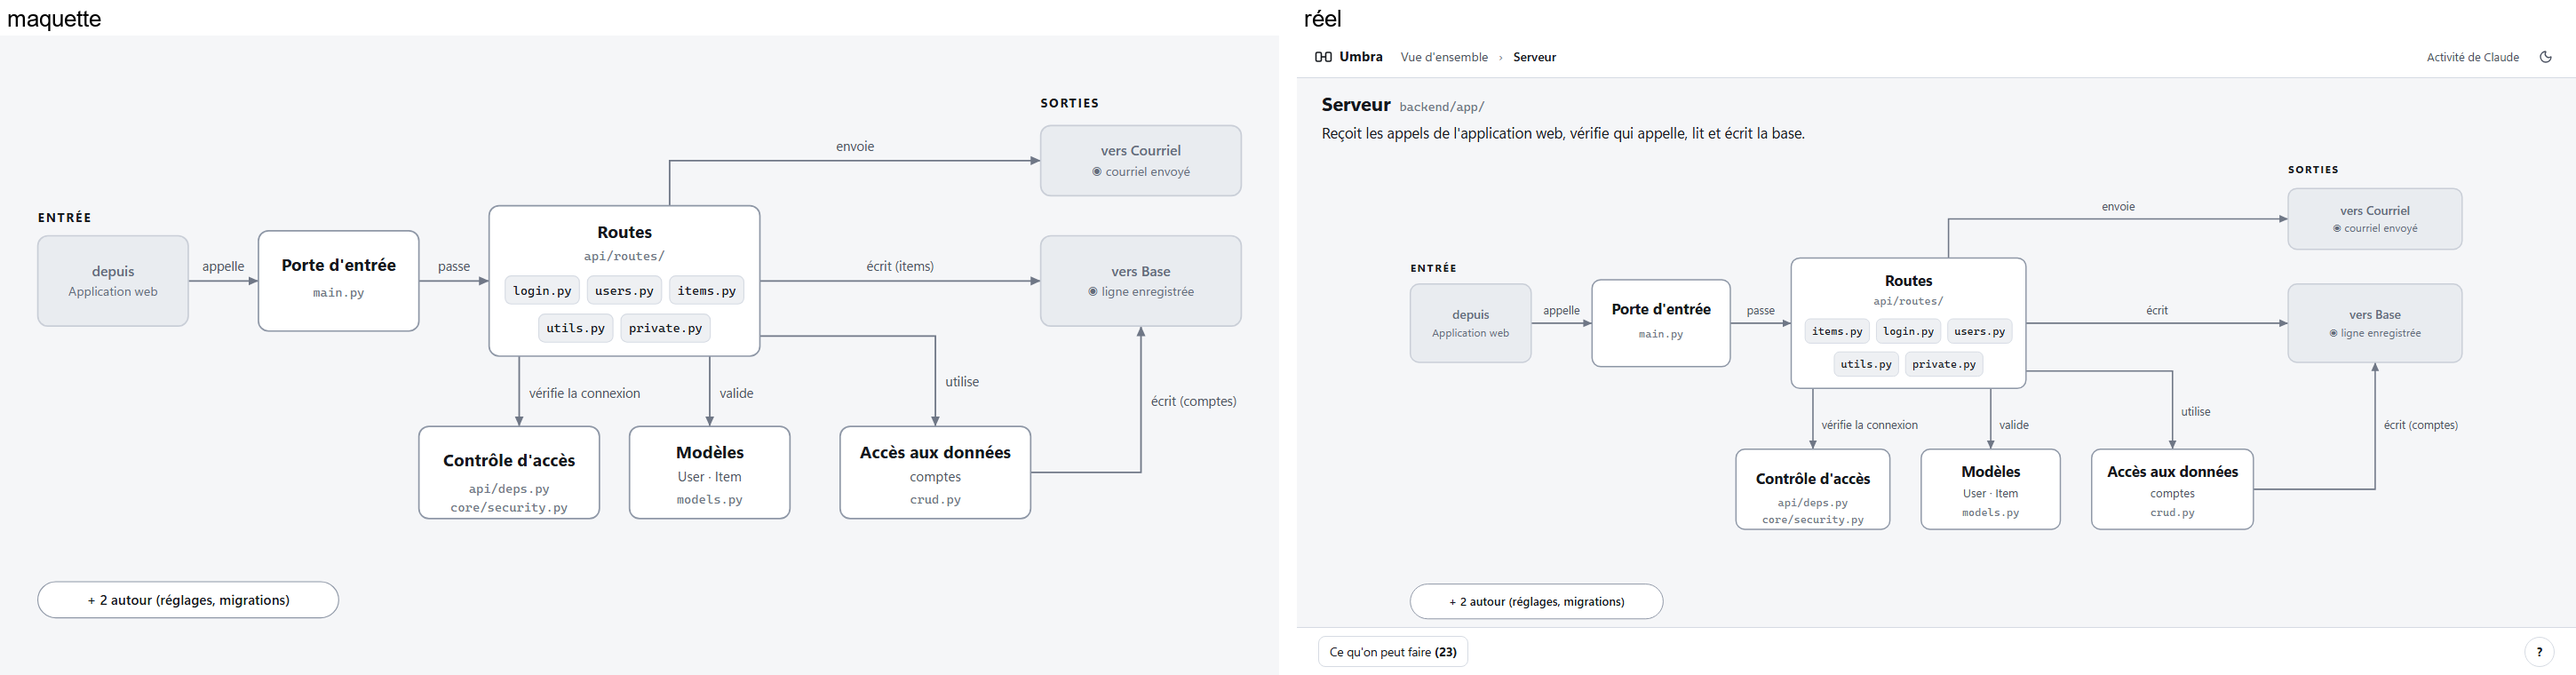
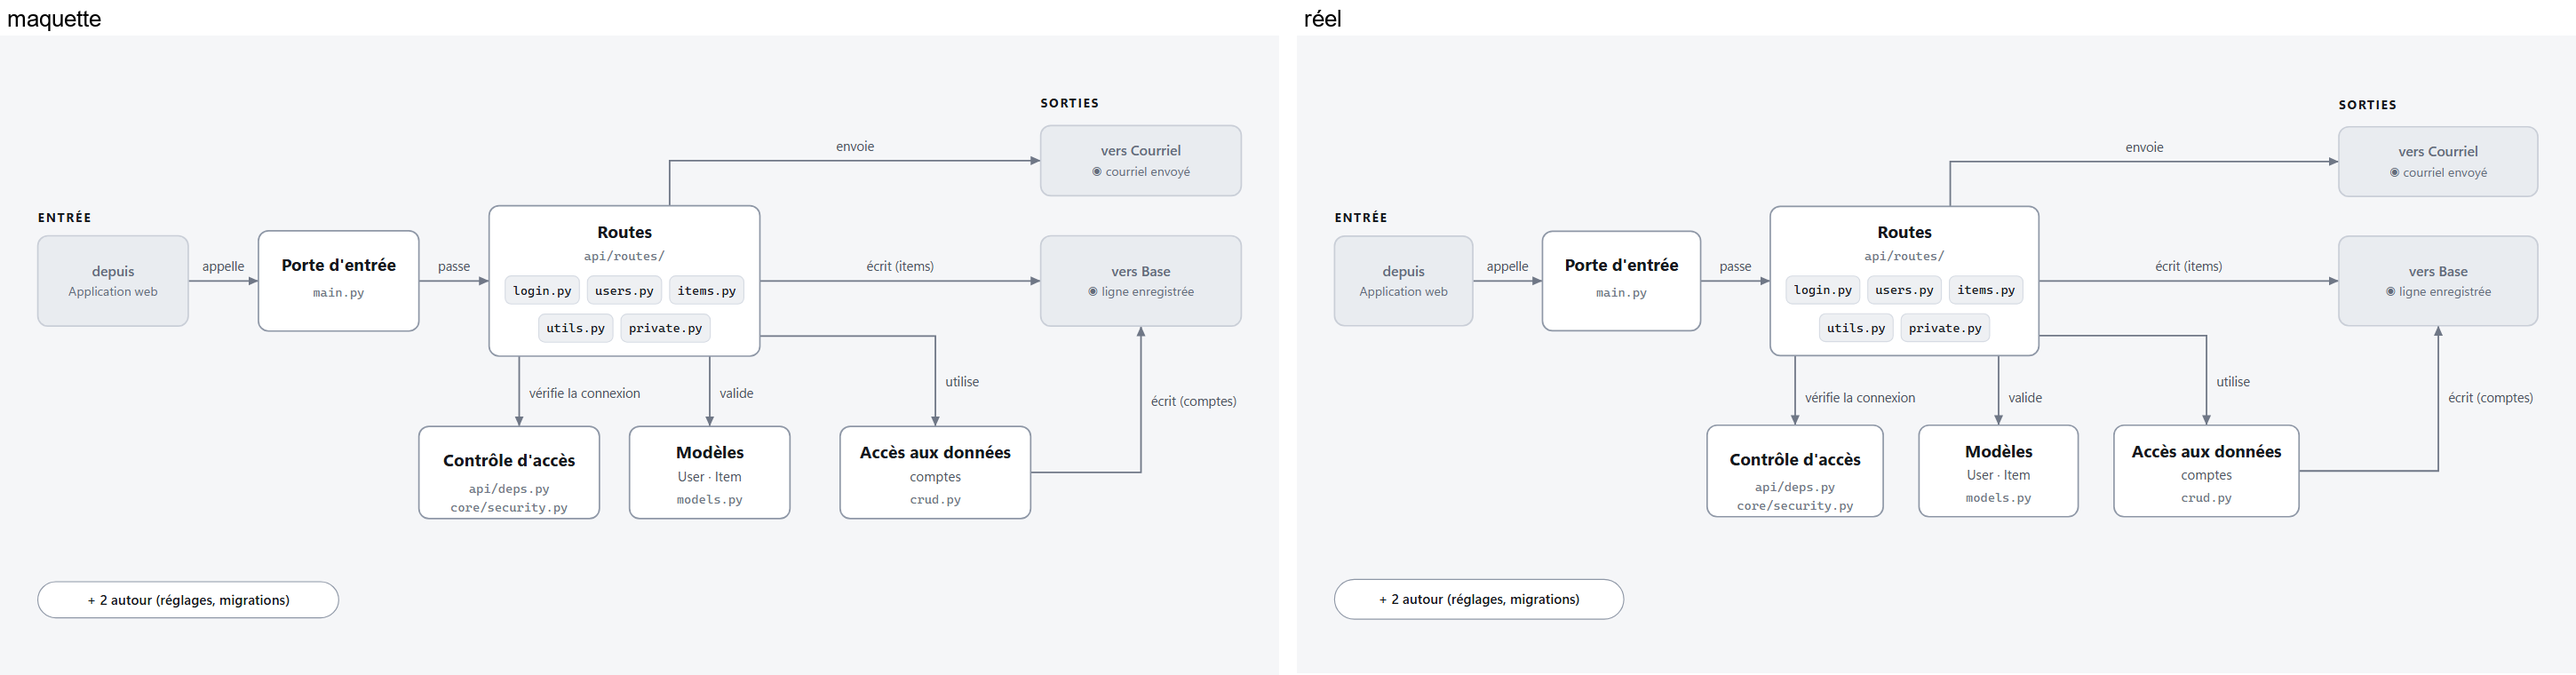
fix: Level 1 matches the mock: Routes 'écrit (items)', chips in mock order, chip hover (#105)
- The arrow from a non-data part to the base names the tables its writing
  files are named after, less those the data part already names: Routes
  writes the items, Accès aux données the accounts.
- Route chips: sign-in first, then the files with the most routes
  (login, users, items / utils, private).
- Hovering a chip only lights its border; the Routes card no longer opens
  over the chips. Keyboard focus on a chip shows its file.
- SORTIES sits higher over an output line alone (p-web).
- Fixture and side-by-side checks refreshed.

diff --git a/ui/src/projectmap/inside/InsideDrawing.tsx b/ui/src/projectmap/inside/InsideDrawing.tsx
@@ -16,7 +16,7 @@ interface Props {
 /** Level 1 as SVG, drawn as the mock: ENTRÉE over the stub on the left, parts left → right, SORTIES over the stubs on the right. */
 export function InsideDrawing({ inside, drawn, selected, onSelect, onStub, onHint, onAround, onAroundLeave }: Props) {
   const names = Object.fromEntries(inside.parts.map((p) => [p.id, p.kind === "stub" ? stubName(p.title, p.detail) : p.title]));
-  const hover = (hint: Hint) => ({
+  const hover = (hint: Hint): HoverHandlers => ({
     onMouseEnter: (e: Pointer) => onHint(hint, e),
     onMouseMove: (e: Pointer) => onHint(hint, e),
     onMouseLeave: () => onHint(null),
@@ -90,7 +90,15 @@ interface PartProps {
   selected: boolean;
   onSelect: (id: string) => void;
   onStub: (neighbour: string) => void;
-  hover: (hint: Hint) => object;
+  hover: (hint: Hint) => HoverHandlers;
+}
+
+interface HoverHandlers {
+  onMouseEnter: (e: Pointer) => void;
+  onMouseMove: (e: Pointer) => void;
+  onMouseLeave: () => void;
+  onFocus: (e: Pointer) => void;
+  onBlur: () => void;
 }
 
 function Part({ drawn: { part, rect, chips }, selected, onSelect, onStub, hover }: PartProps) {
@@ -155,7 +163,7 @@ function Part({ drawn: { part, rect, chips }, selected, onSelect, onStub, hover 
           className="pm-chip"
           tabIndex={0}
           aria-label={chip.label}
-          {...hover({ title: chip.label, text: "", proofs: [{ file: chip.file, start: 0, end: 0 }], guess: false })}
+          {...chipHover(hover({ title: chip.label, text: "", proofs: [{ file: chip.file, start: 0, end: 0 }], guess: false }))}
         >
           <rect x={chip.rect.x} y={chip.rect.y} width={chip.rect.w} height={chip.rect.h} rx={6} />
           <text x={chip.rect.x + chip.rect.w / 2} y={chip.rect.y + 18.5} textAnchor="middle">
@@ -165,4 +173,18 @@ function Part({ drawn: { part, rect, chips }, selected, onSelect, onStub, hover 
       ))}
     </g>
   );
+}
+
+/** A chip under the mouse only lights its border (mock), and keeps the box's card from opening over the
+ * chips next to it; its file still shows on keyboard focus. */
+function chipHover(handlers: HoverHandlers) {
+  const quiet = (e: Pointer & { stopPropagation: () => void }) => {
+    e.stopPropagation();
+    handlers.onMouseLeave();
+  };
+  const focus = (e: Pointer) => {
+    e.stopPropagation(); // the box around it would open its own card over this one
+    handlers.onFocus(e);
+  };
+  return { onMouseEnter: quiet, onMouseMove: quiet, onFocus: focus, onBlur: handlers.onBlur };
 }

diff --git a/ui/src/projectmap/inside/insideGeometry.ts b/ui/src/projectmap/inside/insideGeometry.ts
@@ -62,8 +62,8 @@ export function chipLabel(file: string): string {
 }
 
 function chipRows(part: InsidePart): string[][] {
-  // Shortest names first: the long one goes to the second row, which keeps the box narrow (mock: private.py).
-  const labels = part.chips.map((c) => chipLabel(c.file)).sort((a, b) => a.length - b.length || a.localeCompare(b));
+  // In the engine's order: sign-in first, then the files with the most routes (mock: login, users, items).
+  const labels = part.chips.map((c) => chipLabel(c.file));
   const rows: string[][] = [];
   for (let i = 0; i < labels.length; i += CHIPS_PER_ROW) rows.push(labels.slice(i, i + CHIPS_PER_ROW));
   return rows;
@@ -170,7 +170,8 @@ export function insideGeometry(inside: InsideMap): InsideGeometry {
     arrows,
     outputs,
     entry: firstIn ? { x: 20, y: firstIn.y - 14 } : null,
-    sorties: outs.some((s) => s.detail.startsWith("◉")) || outputs.length ? { x: outX, y: highest - 18 } : null,
+    // Over an output line alone, SORTIES keeps the mock's wider gap (p-web: about 40 px above the line).
+    sorties: outs.some((s) => s.detail.startsWith("◉")) || outputs.length ? { x: outX, y: stubAbove || !outputs.length ? highest - 18 : Math.min(highest - 18, 70 - 40) } : null,
     around: inside.around.length ? { x: 20, y: AROUND_Y, w: Math.max(240, insideAroundText(inside).length * 7.6 + 40) } : null,
   };
 }

diff --git a/engine/src/umbra_engine/projection/inside_links.py b/engine/src/umbra_engine/projection/inside_links.py
@@ -2,11 +2,13 @@
 neighbours of the Level 0 map, drawn as grey stubs at the edges, from the lines that reach them (a write,
 an SMTP call, an HTTP client). One verb per arrow; a part on the lower row gets one arrow in, no more."""
 
+import posixpath
 from dataclasses import dataclass
 
 from umbra_engine.claims import StoredClaim
 from umbra_engine.projection.inside_model import InsidePart
 from umbra_engine.projection.inside_parts import Group
+from umbra_engine.projection.inside_words import table_words
 from umbra_engine.projection.system_facts import Facts
 from umbra_engine.projection.system_model import Proof, SystemBox, SystemLink, SystemMap, proof_of
 from umbra_engine.projection.system_units import Unit
@@ -162,10 +164,7 @@ def _senders(
     if target.startswith("store:"):
         writers = having("db-write")
         if writers:
-            return [
-                (p, "écrit" + (f" ({p.part.detail})" if p.part.kind == "data" and p.part.detail else ""), c)
-                for p, c in writers
-            ]
+            return _writes(facts, writers)
         return [(p, "lit", c) for p, c in having("db-driver:")]
     if target == "sqlite-file":
         return [(p, verb, c) for p, c in having("sqlite")]
@@ -184,6 +183,30 @@ def _senders(
         return [(p, verb, c) for p, c in calls]
     entry = placed[0]
     return [(entry, verb, [])]
+
+
+def _writes(
+    facts: Facts, writers: list[tuple[Placed, list[StoredClaim]]]
+) -> list[tuple[Placed, str, list[StoredClaim]]]:
+    """« écrit (comptes) » for a data part, by its function names; for any other part, the tables its
+    writing files are named after, less those a data part already names: Routes « écrit (items) »."""
+    words = table_words(facts)
+    named = {w for p, _ in writers if p.part.kind == "data" for w in p.part.detail.split(" · ") if w}
+    found: list[tuple[Placed, str, list[StoredClaim]]] = []
+    for part, claims in writers:
+        if part.part.kind == "data":
+            found.append((part, "écrit" + (f" ({part.part.detail})" if part.part.detail else ""), claims))
+            continue
+        word_of = {c.file: words.get(_stem(c.file).rstrip("s")) for c in claims}
+        tables = list(dict.fromkeys(w for w in word_of.values() if w))
+        own = [w for w in tables if w not in named] or tables
+        ordered = sorted(claims, key=lambda c: word_of[c.file] not in own)  # its own tables' lines first
+        found.append((part, "écrit" + (f" ({' · '.join(own[:SHOWN])})" if own else ""), ordered))
+    return found
+
+
+def _stem(path: str) -> str:
+    return posixpath.splitext(posixpath.basename(path))[0].lower()
 
 
 def distinct(claims: list[StoredClaim]) -> list[Proof]:

diff --git a/engine/src/umbra_engine/projection/inside_parts.py b/engine/src/umbra_engine/projection/inside_parts.py
@@ -7,6 +7,7 @@ one part per top file or folder. Tests, migrations, settings and a UI kit go « 
 
 import posixpath
 import re
+from collections import Counter
 from collections.abc import Callable
 from dataclasses import dataclass, field
 
@@ -18,6 +19,7 @@ from umbra_engine.projection.system_units import CODE, Unit
 PAGE_DIRS = {"routes", "pages"}
 CLIENT_DIRS = {"client", "api", "services"}
 SCREEN_DIRS = {"components", "features", "screens", "views", "widgets"}
+SIGN_IN_STEMS = {"login", "signin", "sign_in", "auth", "session", "sessions"}
 UI_KIT_DIRS = {"ui"}  # under a screens folder: shared buttons and fields, not screens
 SIGNALS_OF = {
     "server": (
@@ -95,7 +97,7 @@ def _rule(facts: Facts, unit: Unit, part: str, signals: tuple[str, ...], free: s
     if part in picks:
         files |= {f for f in free if picks[part](f)}
     if part == "routes":  # a file that only hangs routes on the app (`api/main.py`) goes with them
-        chips = sorted({c.file for c in claims if c.object == "signal:route"})
+        chips = _chip_order([c.file for c in claims if c.object == "signal:route"])
         return Group(part, files, _ordered(claims), chips) if chips else None
     return Group(part, files, _ordered(claims)) if files else None
 
@@ -119,6 +121,17 @@ def _sizes(facts: Facts) -> dict[str, int]:
     for claim in facts.classes + facts.functions:
         sizes[claim.file] = max(sizes.get(claim.file, 0), claim.line_end)
     return sizes
+
+
+def _chip_order(route_lines: list[str]) -> list[str]:
+    """Route files: the sign-in first (the door people meet first), then the most routes, then by name."""
+    count = Counter(route_lines)
+
+    def rank(file: str) -> tuple[bool, int, str]:
+        stem = posixpath.splitext(posixpath.basename(file))[0].lower()
+        return stem not in SIGN_IN_STEMS, -count[file], file
+
+    return sorted(count, key=rank)
 
 
 def _ordered(claims: list[StoredClaim]) -> list[StoredClaim]:

diff --git a/engine/tests/test_inside.py b/engine/tests/test_inside.py
@@ -142,9 +142,9 @@ def test_inside_the_server_entry_routes_access_models_data_and_stubs(client, aut
         ("Accès aux données", "comptes", ["crud.py"]),
     ]
     routes = next(p for p in found["parts"] if p["title"] == "Routes")
-    assert [c["file"] for c in routes["chips"]] == [
-        "backend/app/api/routes/items.py",
+    assert [c["file"] for c in routes["chips"]] == [  # sign-in first, then the most routes (mock order)
         "backend/app/api/routes/login.py",
+        "backend/app/api/routes/items.py",
     ]
     assert stubs(found) == {
         "web:frontend": ("in", "depuis", "Application web"),
@@ -157,7 +157,7 @@ def test_inside_the_server_entry_routes_access_models_data_and_stubs(client, aut
         ("Routes", "vérifie la connexion", "Contrôle d'accès"),
         ("Routes", "valide", "Modèles"),
         ("Routes", "utilise", "Accès aux données"),  # `from app import crud`: the module, not the package
-        ("Routes", "écrit", "Base"),
+        ("Routes", "écrit (items)", "Base"),  # what it writes that Accès aux données does not name
         ("Accès aux données", "écrit (comptes)", "Base"),
         ("Routes", "envoie", "Courriel"),  # through the mail helper `utils.py`, which is no part of its own
     }
